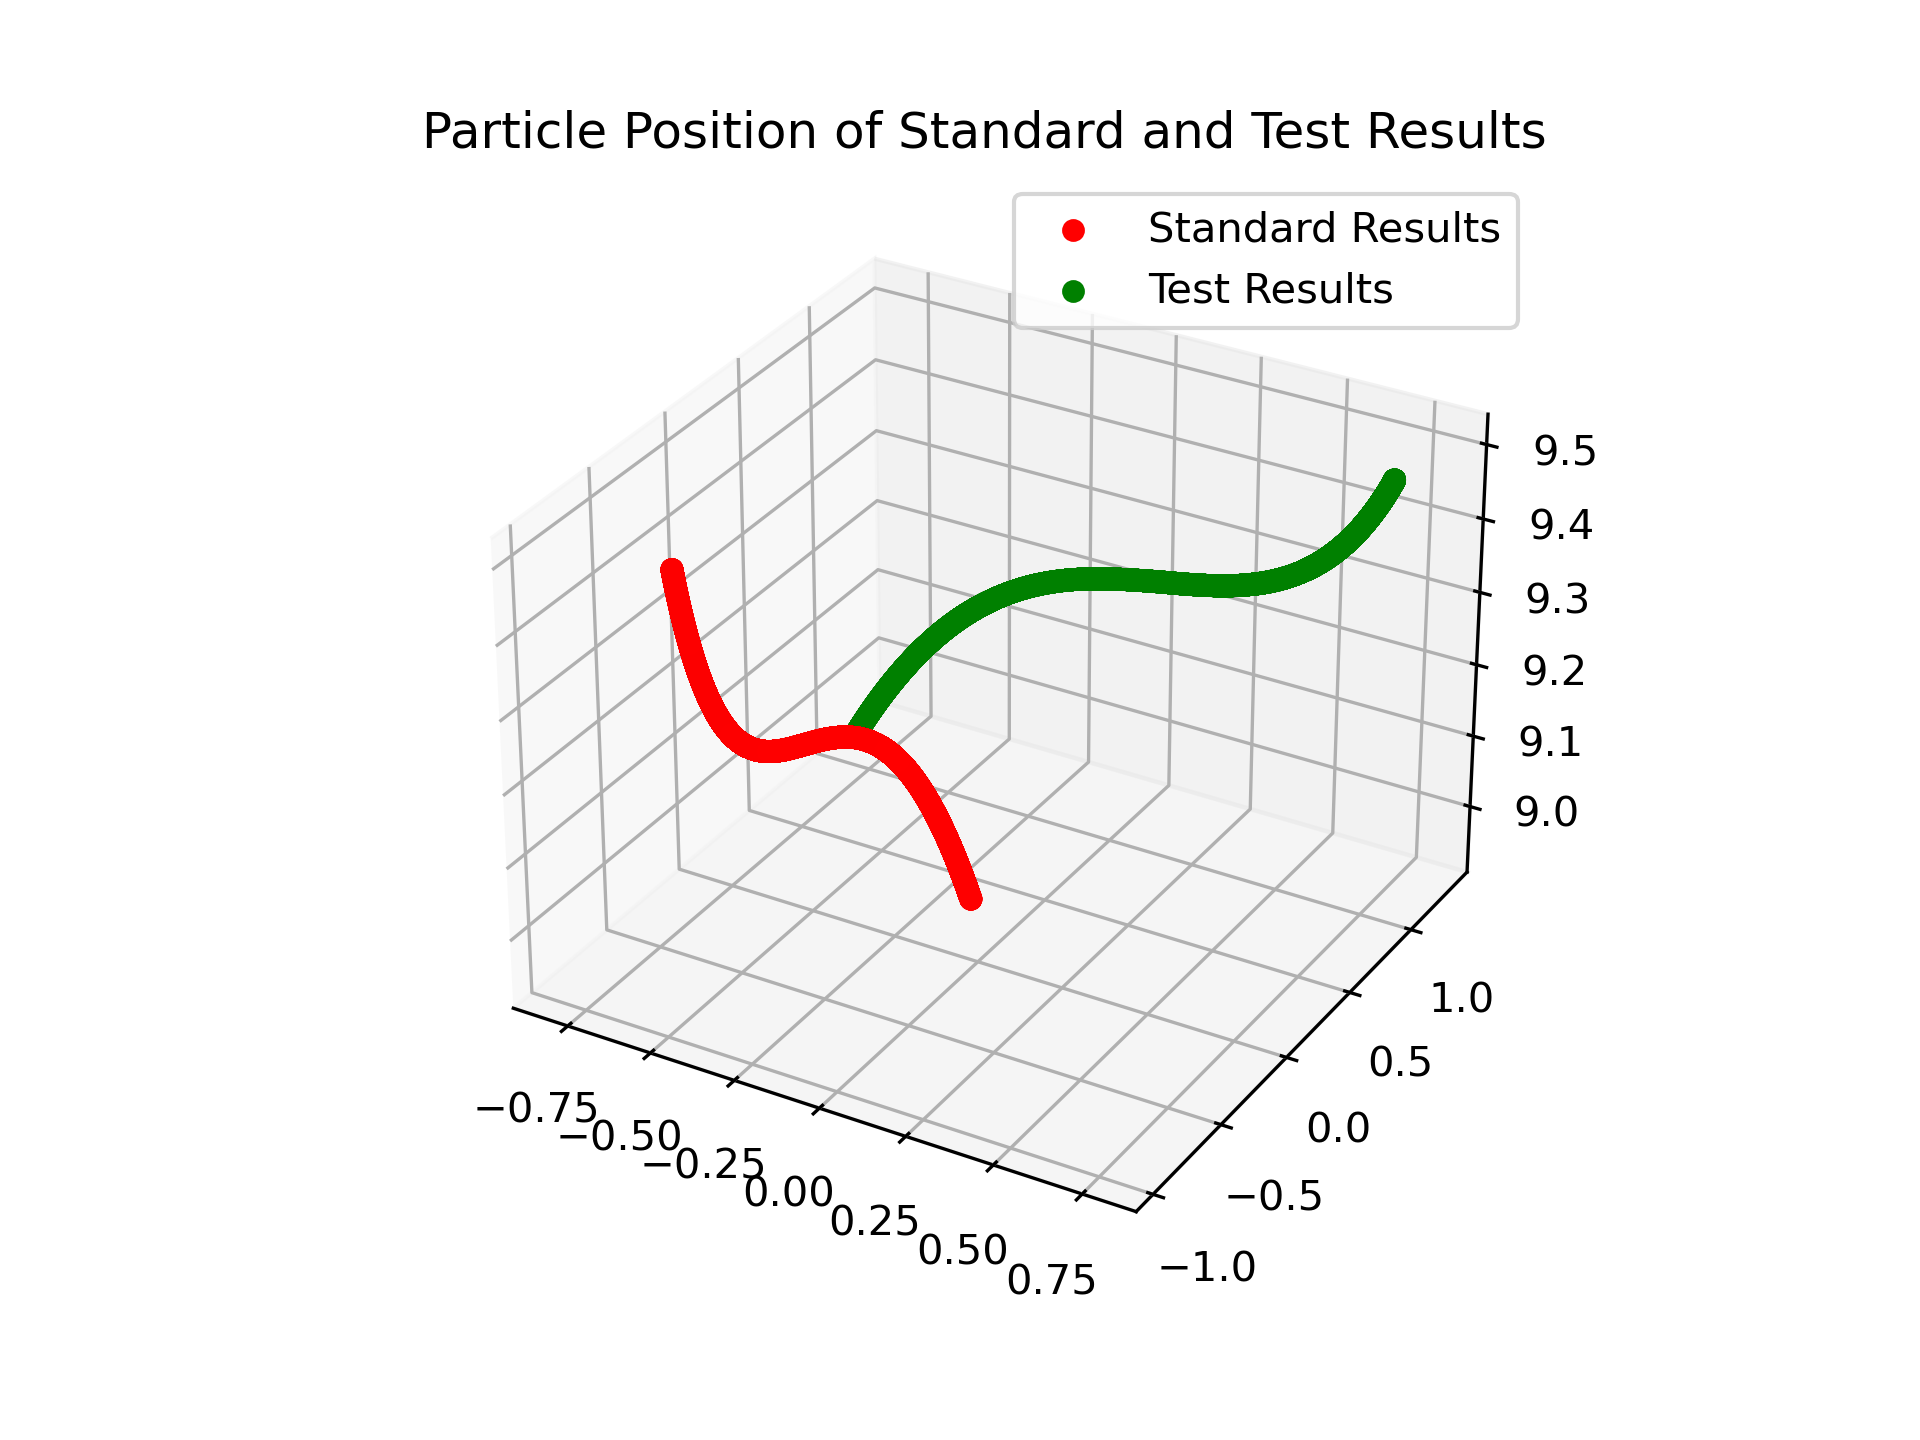
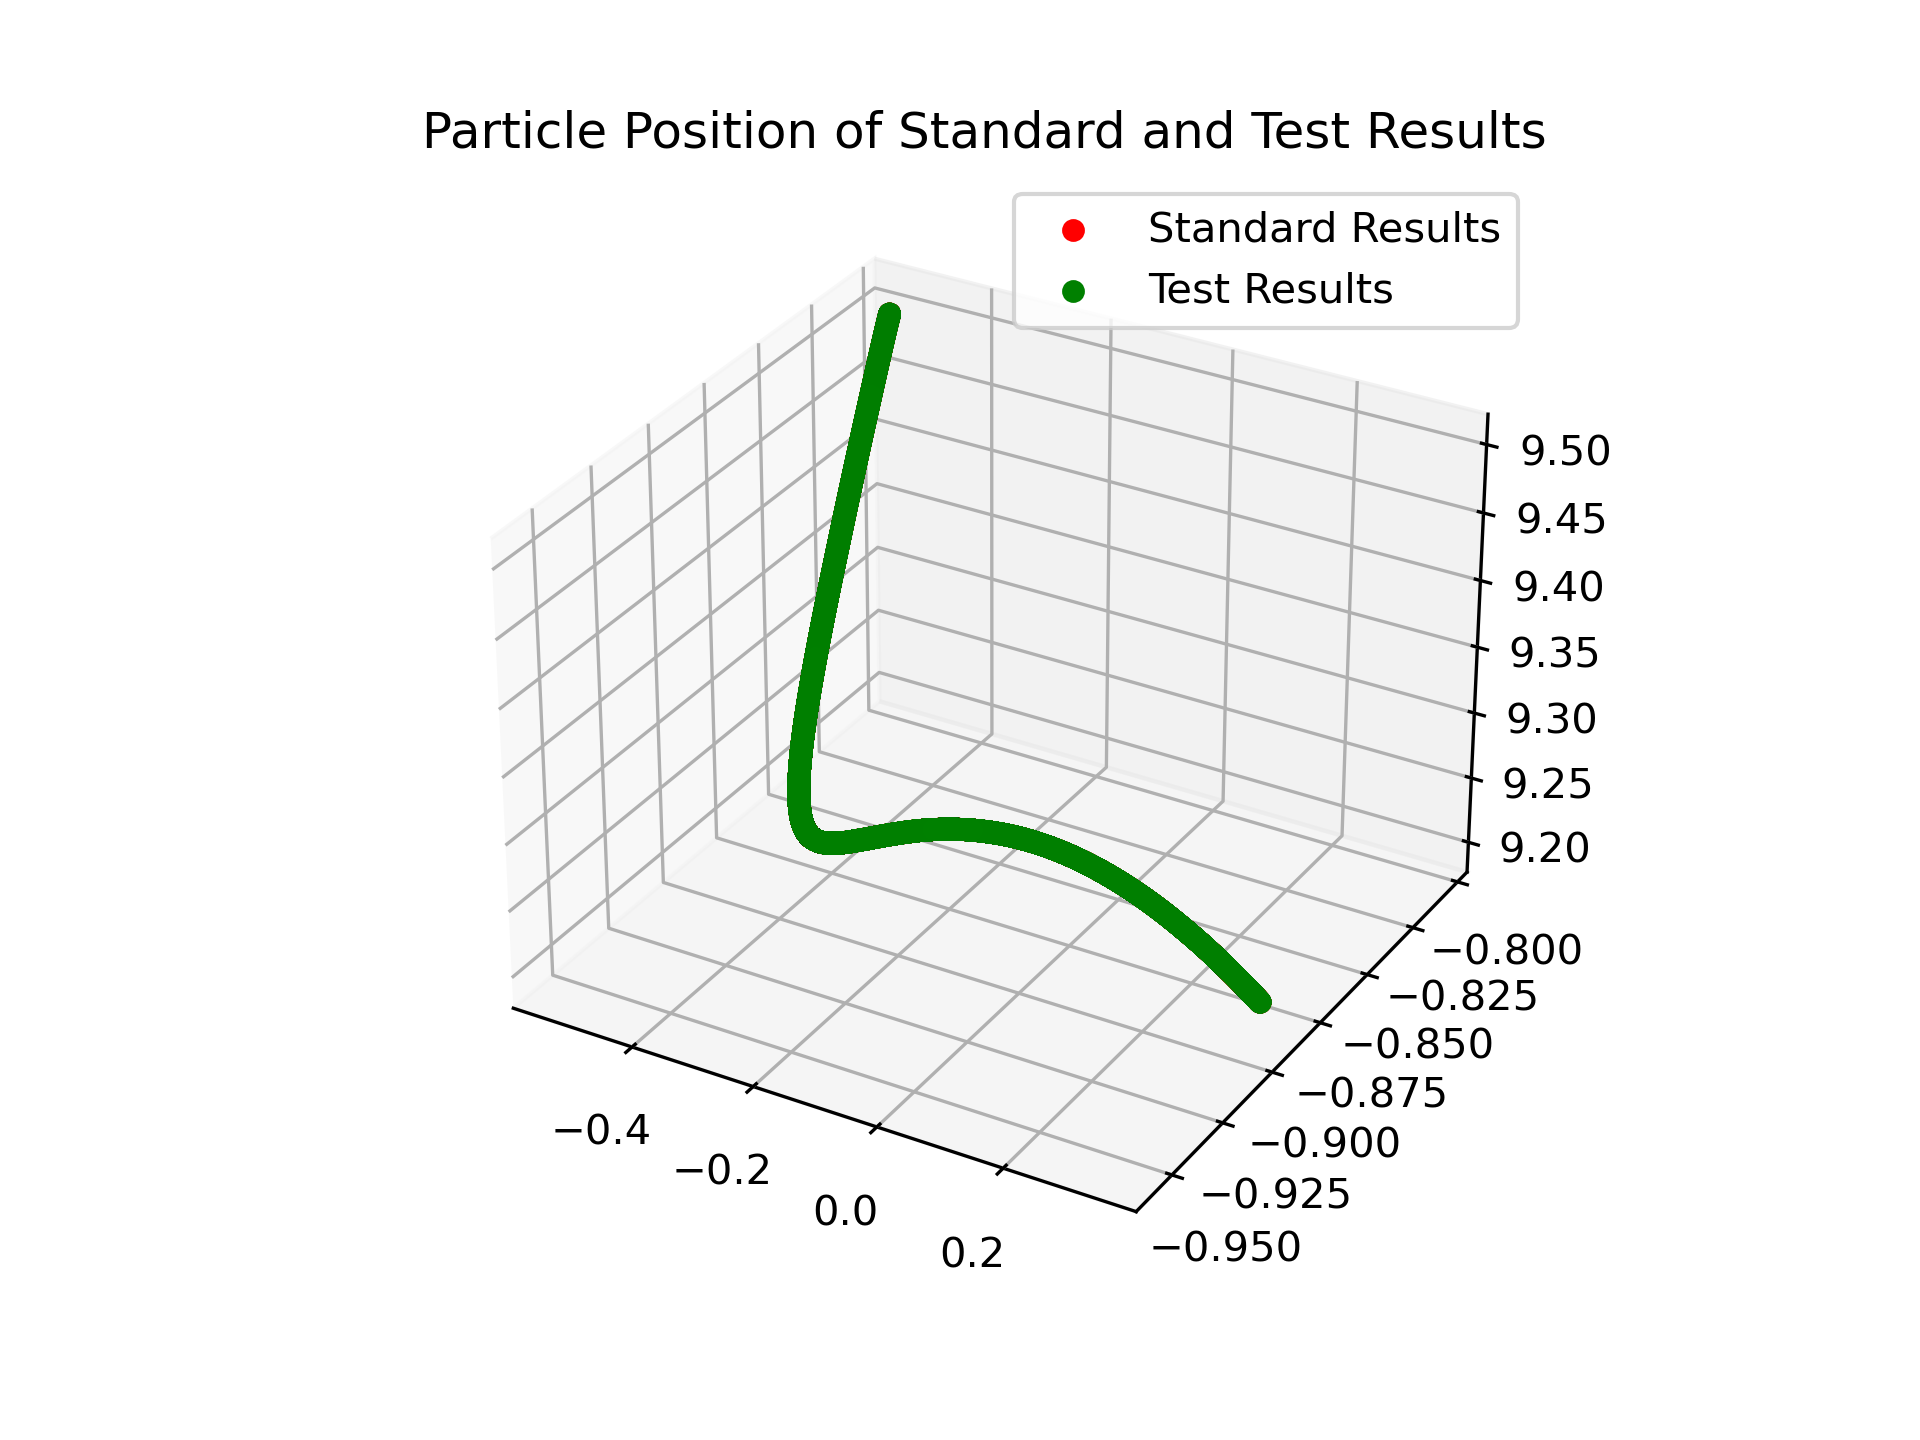
Demo Passed Regression

Changed region(s): [[0.25, 0.1875, 0.8438, 0.8438], [0.5938, 0.6562, 0.8125, 0.9062], [0.25, 0.75, 0.5625, 0.9062]]

diff --git a/Cases/cylindrical_flow/RegressionSummary.tex b/Cases/cylindrical_flow/RegressionSummary.tex
@@ -4,11 +4,11 @@
 \begin{document}
 
 \section{Regression Test of GVTK}
-Date: 05/03/2023 11:40:12
+Date: 05/03/2023 11:52:00
 
 \vspace{5pt}
 
-\noindent Regression Test Status: FAILED
+\noindent Regression Test Status: PASSED
 
 \vspace{5pt}
 
@@ -24,21 +24,19 @@ are changing most drastically due to the updates to help guide debugging or phys
 \noindent Summary of Summed Errors:
 \vspace{5pt}
 
-Velocity Error: 15295.338876598356
+Velocity Error: 0.0
 
-Position Error: 1966.5533145914744
+Position Error: 0.0
 
-Drag Error: 17.401707906140032
+Drag Error: 0.0
 
-ShearGradLift Error: 21.914155480778195
+ShearGradLift Error: 0.0
 
 Body Force Error: 0.0
 
 \vspace{5pt}
 
-\noindent Summary/Actions: Regression test has failed meaning there are drastic changes in the results of the code. 
-If there is supposed to be drastic changes, please make sure you have conferred with the team that this is correct and then update the Standard File in gitlab by running the input-tracer-analytical-standard.dat for the cylindrical flow dataset.
-Run the regression test again with the new standard files to make sure it passes.
+\noindent Summary/Actions: No action needed, regression test passed and it is safe to push new version to GitLab
 
 \vspace{5pt}
 

diff --git a/Docs/RegressionSummary.tex b/Docs/RegressionSummary.tex
@@ -4,11 +4,11 @@
 \begin{document}
 
 \section{Regression Test of GVTK}
-Date: 05/03/2023 11:40:12
+Date: 05/03/2023 11:52:00
 
 \vspace{5pt}
 
-\noindent Regression Test Status: FAILED
+\noindent Regression Test Status: PASSED
 
 \vspace{5pt}
 
@@ -24,21 +24,19 @@ are changing most drastically due to the updates to help guide debugging or phys
 \noindent Summary of Summed Errors:
 \vspace{5pt}
 
-Velocity Error: 15295.338876598356
+Velocity Error: 0.0
 
-Position Error: 1966.5533145914744
+Position Error: 0.0
 
-Drag Error: 17.401707906140032
+Drag Error: 0.0
 
-ShearGradLift Error: 21.914155480778195
+ShearGradLift Error: 0.0
 
 Body Force Error: 0.0
 
 \vspace{5pt}
 
-\noindent Summary/Actions: Regression test has failed meaning there are drastic changes in the results of the code. 
-If there is supposed to be drastic changes, please make sure you have conferred with the team that this is correct and then update the Standard File in gitlab by running the input-tracer-analytical-standard.dat for the cylindrical flow dataset.
-Run the regression test again with the new standard files to make sure it passes.
+\noindent Summary/Actions: No action needed, regression test passed and it is safe to push new version to GitLab
 
 \vspace{5pt}
 

diff --git a/Lagrangian/testModule.py b/Lagrangian/testModule.py
@@ -16,7 +16,7 @@ class Testing():
     def Compare(self):
         #Reading standard files and test files from both locations for comparison
         StandardResults = self.StandardRoot + '/Lagrangian/StandardFiles/StandardFile1.txt'
-        TestResults = self.RootDir + 'TestFiles/TestFile0.txt'
+        TestResults = self.RootDir + 'TestFiles/TestFile1.txt'
 
         StandardFile = open(StandardResults,'r')
         TestFile = open(TestResults,'r')
